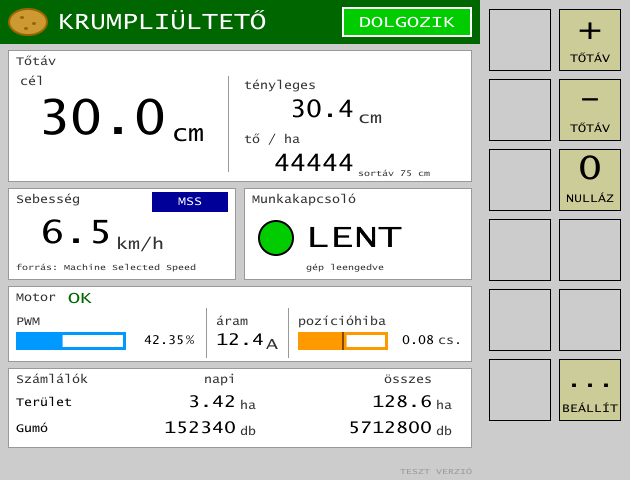
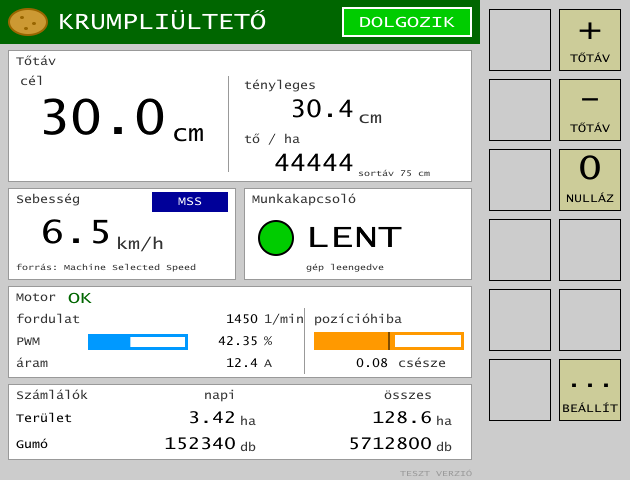
Show motor speed next to PWM and current
Rising PWM and current at the same speed shows the drive getting harder.

Changed region(s): [[0.0, 0.6562, 0.754, 1.0]]

diff --git a/tools/make_pool.py b/tools/make_pool.py
@@ -246,6 +246,7 @@ OUT_SEEDS_TOTAL = 6016            # pieces
 OUT_MOTOR_STATE = 6017            # string, 8 chars
 OUT_MOTOR_CURRENT = 6018          # 0.1 A
 VAR_MOTOR_PWM = 6019              # number variable, 0.01 % (0..10000): PWM bar and number together
+OUT_MOTOR_RPM = 6020              # 1/min
 
 # Settings
 IN_ROW_SPACING = 6100             # cm
@@ -368,22 +369,28 @@ def build():
         (p.text(212, 16, "gép leengedve", LABEL, F6x8), 62, 72),
     ]
 
-    motor = panel(p, 464, 76, "Motor") + [
+    def metric(label, y):
+        return (p.text(80, 20, label, LABEL, F8x12), 8, y)
+
+    motor = panel(p, 464, 92, "Motor") + [
         (p.text(90, 20, "OK", DARK_GREEN, F12x16, LEFT | MIDDLE, object_id=OUT_MOTOR_STATE, name="OUT_MOTOR_STATE"), 60, 2),
-        (p.text(80, 20, "PWM", LABEL, F8x12), 8, 26),
-        (p.bar(OUT_MOTOR_PWM_BAR, 110, 18, 0, rgb(0, 3, 5), ticks=5, maximum=10000, var=VAR_MOTOR_PWM,
-               name="OUT_MOTOR_PWM_BAR"), 8, 46),
-        (p.number(OUT_MOTOR_PWM, 56, 18, 0, 0.01, 2, BLACK, F8x12, var=VAR_MOTOR_PWM, name="OUT_MOTOR_PWM"), 120, 46),
-        (p.text(16, 18, "%", LABEL, F8x12), 178, 46),
-        (p.rect(1, 50, GREY), 198, 22),
-        (p.text(60, 20, "áram", LABEL, F8x12), 208, 26),
-        (p.number(OUT_MOTOR_CURRENT, 52, 24, 124, 0.1, 1, BLACK, F12x16, name="OUT_MOTOR_CURRENT"), 204, 42),
-        (p.text(16, 24, "A", LABEL, F12x16, LEFT | BOTTOM), 258, 42),
-        (p.rect(1, 50, GREY), 280, 22),
-        (p.text(140, 20, "pozícióhiba", LABEL, F8x12), 290, 26),
-        (p.bar(OUT_POSITION_ERROR_BAR, 90, 18, 54, rgb(5, 3, 0), target=50, name="OUT_POSITION_ERROR_BAR"), 290, 46),
-        (p.number(OUT_POSITION_ERROR, 44, 18, 10008, 0.01, 2, BLACK, F8x12, offset=-10000, name="OUT_POSITION_ERROR"), 382, 46),
-        (p.text(30, 18, "cs.", LABEL, F8x12), 430, 46),
+        # Speed, PWM and current side by side: more PWM and current for the same speed = the drive got harder
+        metric("fordulat", 24),
+        (p.number(OUT_MOTOR_RPM, 64, 20, 1450, 1, 0, BLACK, F8x12, name="OUT_MOTOR_RPM"), 186, 24),
+        (p.text(40, 20, "1/min", LABEL, F8x12), 256, 24),
+        metric("PWM", 46),
+        (p.bar(OUT_MOTOR_PWM_BAR, 100, 16, 0, rgb(0, 3, 5), ticks=5, maximum=10000, var=VAR_MOTOR_PWM,
+               name="OUT_MOTOR_PWM_BAR"), 80, 48),
+        (p.number(OUT_MOTOR_PWM, 64, 20, 0, 0.01, 2, BLACK, F8x12, var=VAR_MOTOR_PWM, name="OUT_MOTOR_PWM"), 186, 46),
+        (p.text(40, 20, "%", LABEL, F8x12), 256, 46),
+        metric("áram", 68),
+        (p.number(OUT_MOTOR_CURRENT, 64, 20, 124, 0.1, 1, BLACK, F8x12, name="OUT_MOTOR_CURRENT"), 186, 68),
+        (p.text(40, 20, "A", LABEL, F8x12), 256, 68),
+        (p.rect(1, 66, GREY), 296, 22),
+        (p.text(160, 20, "pozícióhiba", LABEL, F8x12), 306, 24),
+        (p.bar(OUT_POSITION_ERROR_BAR, 150, 18, 54, rgb(5, 3, 0), target=50, name="OUT_POSITION_ERROR_BAR"), 306, 46),
+        (p.number(OUT_POSITION_ERROR, 50, 20, 10008, 0.01, 2, BLACK, F8x12, offset=-10000, name="OUT_POSITION_ERROR"), 330, 68),
+        (p.text(60, 20, "csésze", LABEL, F8x12), 390, 68),
     ]
 
     def counter(label, unit, number_id, name, value, scale, decimals, y):
@@ -391,7 +398,7 @@ def build():
                 (p.number(number_id, 120, 18, value, scale, decimals, BLACK, F12x16, name=name), 100, y),
                 (p.text(40, 18, unit, LABEL, F8x12), 226, y)]
 
-    counters = panel(p, 464, 80, "Számlálók") + [
+    counters = panel(p, 464, 76, "Számlálók") + [
         (p.text(100, 16, "napi", LABEL, F8x12, RIGHT | MIDDLE), 128, 4),
         (p.text(100, 16, "összes", LABEL, F8x12, RIGHT | MIDDLE), 324, 4),
         (p.text(80, 18, "Terület", BLACK, F8x12), 8, 26),
@@ -412,8 +419,8 @@ def build():
         *offset(speed, 8, 188),
         *offset(work, 244, 188),
         *offset(motor, 8, 286),
-        *offset(counters, 8, 368),
-        (p.text(464, 24, "TESZT VERZIÓ", GREY, F6x8, RIGHT | BOTTOM), 8, 452),
+        *offset(counters, 8, 384),
+        (p.text(464, 18, "TESZT VERZIÓ", GREY, F6x8, RIGHT | BOTTOM), 8, 460),
     ], name="DM_MAIN")
 
     # --- Settings ------------------------------------------------------------------------------

diff --git a/include/krumpli_pool_ids.hpp b/include/krumpli_pool_ids.hpp
@@ -61,5 +61,6 @@ namespace krumpli_pool
 	constexpr std::uint16_t OUT_MOTOR_STATE = 6017;
 	constexpr std::uint16_t OUT_MOTOR_CURRENT = 6018;
 	constexpr std::uint16_t VAR_MOTOR_PWM = 6019;
+	constexpr std::uint16_t OUT_MOTOR_RPM = 6020;
 	constexpr std::uint16_t OUT_CAL_PULSES = 6207;
 } // namespace krumpli_pool

diff --git a/docs/krumpliulteto-vezerlo.md b/docs/krumpliulteto-vezerlo.md
@@ -111,6 +111,9 @@ dolgozik = munkakapcsoló_lent && v > v_min && sebességforrás_érvényes && !r
 - **Elakadás / láncszakadás figyelés:**
   - nagy PWM, de nincs impulzus → elakadás
   - impulzus van, de a terhelés (áram) gyanúsan kicsi → lánc/hajtás szakadás (ha van áramméréses adat)
+- **Nehezedő hajtás:** ha azonos fordulatszámhoz egyre nagyobb PWM és áram kell → kopás, szennyeződés, beszorulás
+  előjele. A VT-n a fordulat, a PWM és az áram egymás mellett látszik; később figyelmeztetés is lehet belőle
+  (pl. tanult PWM/áram–fordulat görbéhez képest).
 
 ---
 
@@ -121,7 +124,7 @@ dolgozik = munkakapcsoló_lent && v > v_min && sebességforrás_érvényes && !r
 - Tényleges tőtáv (cm), számolt tő/ha
 - Sebesség + forrás (MSS / Ground / Wheel / nincs)
 - Munkakapcsoló állapot
-- Motor állapot, kimenő PWM (%, 0,01 felbontás), motoráram (A)
+- Motor állapot, fordulatszám (1/min), kimenő PWM (%, 0,01 felbontás), motoráram (A)
 - Számlálók: terület (ha), gumószám (napi / összes, nullázható)
 
 ### Beállítások / kalibráció

diff --git a/README.md b/README.md
@@ -29,7 +29,8 @@ kódolással (font type 2), így az ő és ű is helyesen jelenik meg. A kijelze
 ![Munkaképernyő](render/screen_1000.png)
 
 Cél tőtáv (bevihető), tényleges tőtáv, tő/ha, sebesség és forrása, munkakapcsoló, motor állapot,
-PWM (0,01 %) és áram (0,1 A), pozícióhiba, napi és összes terület és gumószám.
+fordulatszám, PWM (0,01 %) és áram (0,1 A) egymás mellett (ha azonos fordulathoz egyre több PWM és
+áram kell, nehezedik a hajtás), pozícióhiba, napi és összes terület és gumószám.
 Softkey-ek: tőtáv +/−, számlálók nullázása, beállítások.
 
 ### Beállítások és szerviz
